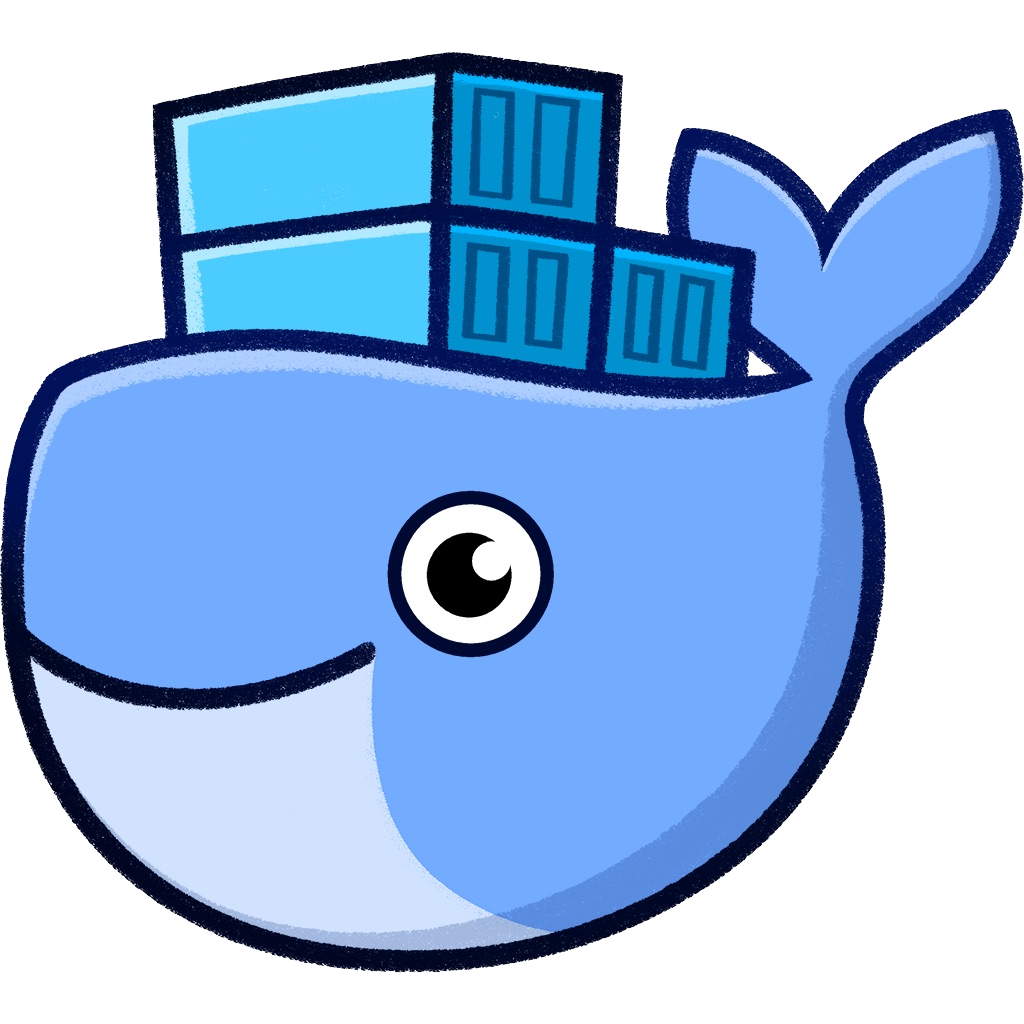
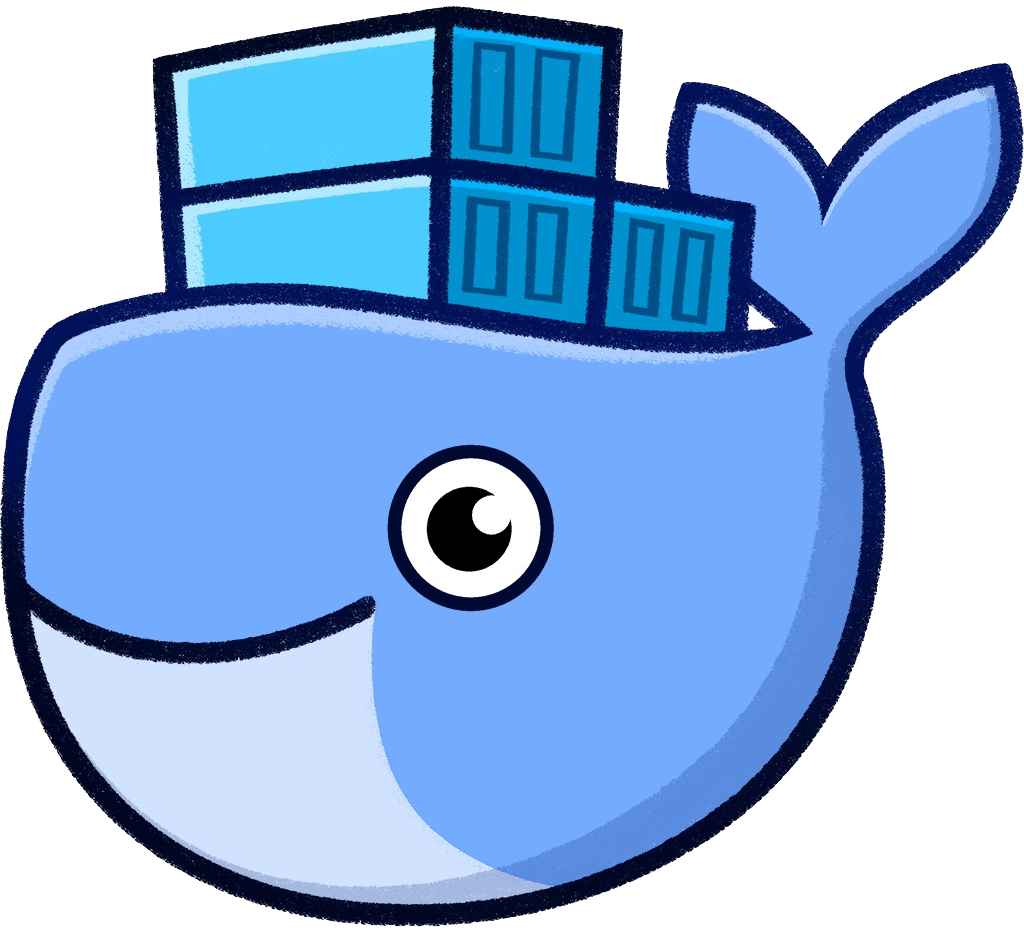
Add ddf performance test link to "About me". Fix image sizing on ibid.

diff --git a/pages/aboutme.html b/pages/aboutme.html
@@ -67,9 +67,9 @@
 				<h4>Here's my latest and greatest:</h4>
 				<div class="row">
 					<div class="icon-link col-md-4">
-						<a href="https://docker.com">
+						<a href="https://github.com/ngoss/ddf-performance-test">
 							<img class="icon img-responsive center-block" src="../img/Docker.png">
-							<h4>Docker</h4>
+							<h4>DDF Performance Test (Docker)</h4>
 						</a>
 					</div>
 					<div class="icon-link col-md-4">

diff --git a/css/main.css b/css/main.css
@@ -79,6 +79,10 @@ html, body {
 	background-color: #E7EFFB;
 }
 
+.body a img {
+	height: 200px;
+}
+
 .body .screencap {
 	height: 150px;
 	border: 1px solid black;
